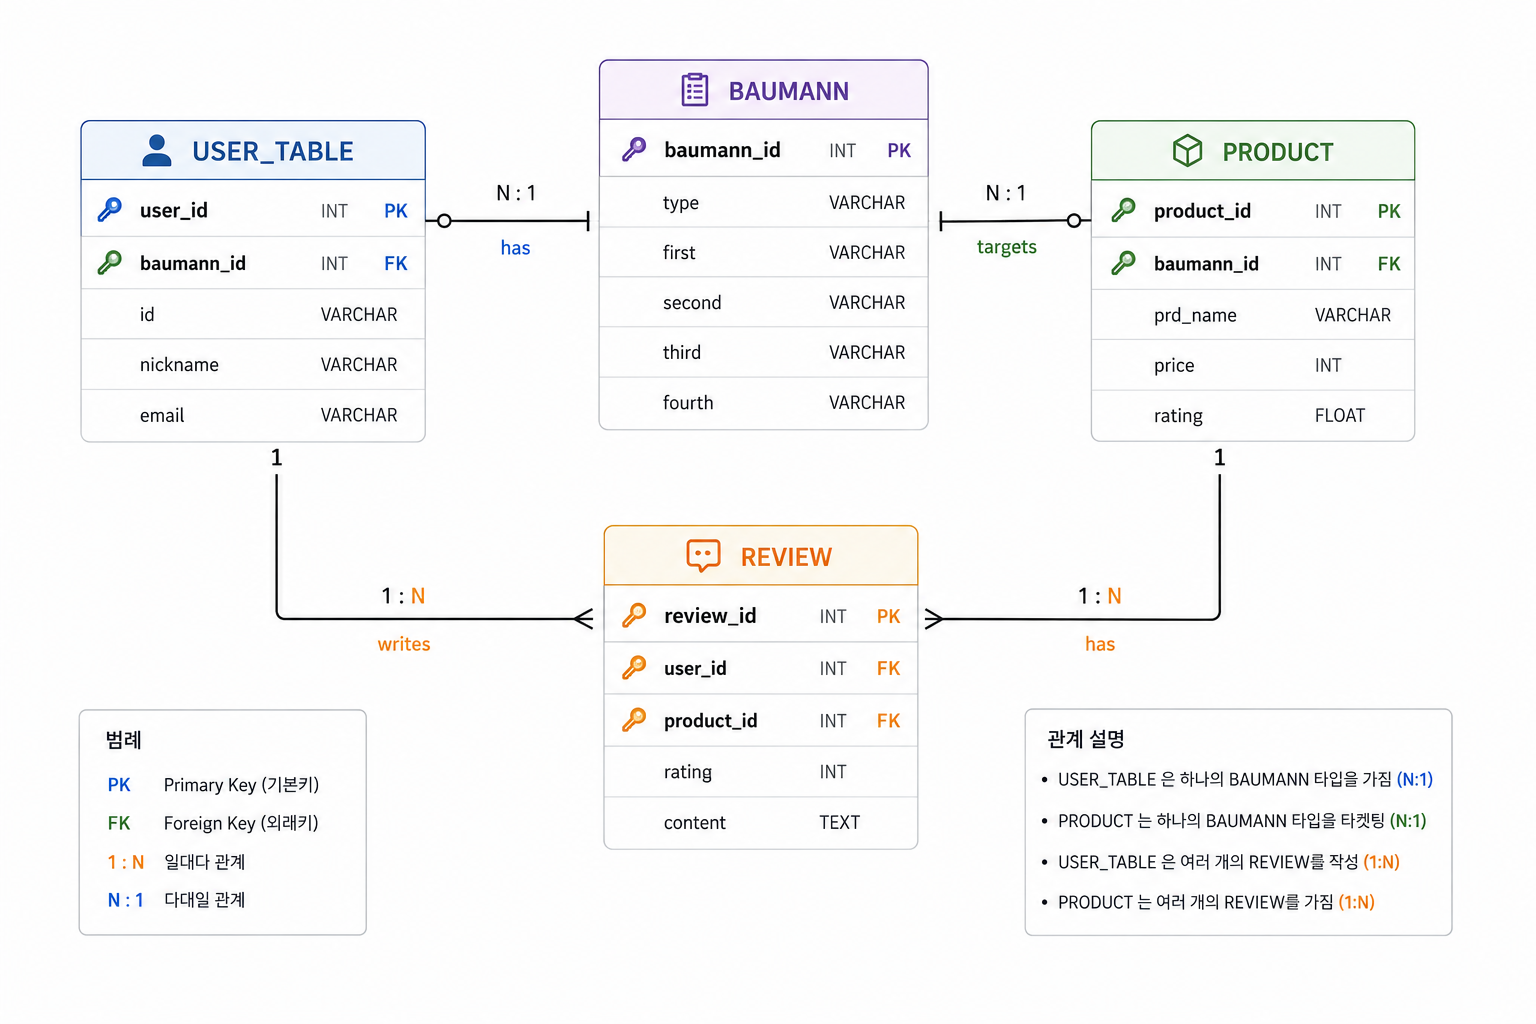
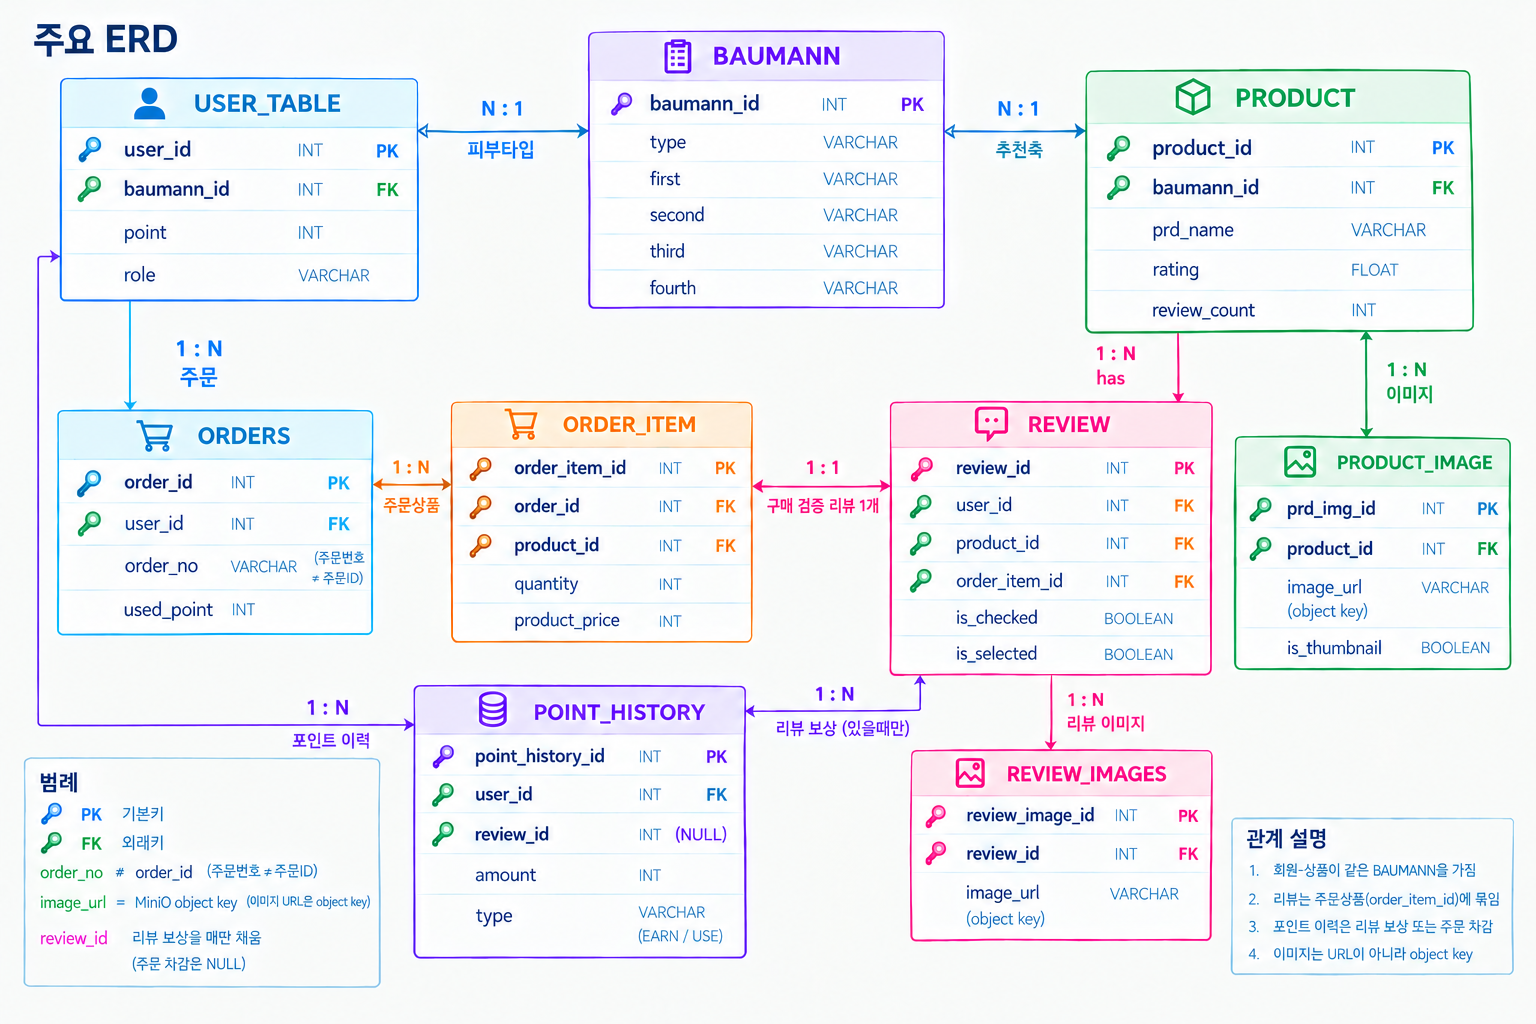
docs: Show core ERD up front and fold the full schema
Replace the old mermaid ERD with the reviewed white diagram, and hide the complete dark ERD behind a collapsed GitHub details block.

diff --git a/README.md b/README.md
@@ -63,80 +63,31 @@ MBTI와 같이 피부 타입을 건성/지성·민감·색소·탄력/주름 네
 
 ### 주요 구현 내용
 
-- **가중치식 추천** — 바우만 4축 일치 + 리뷰 수·별점 유사도 + 베스트 가중치, 상품당 리뷰 1개
-- **Presigned URL 이미지 파이프라인** — 파일은 BE가 받지 않음. Presigned 발급, DB에는 object key
-- **포인트 row lock** — 조회-계산-갱신을 `SELECT … FOR UPDATE`와 트랜잭션으로 묶음
-- **Compose 기반 EC2 배포** — Oracle / MinIO / BE / FE를 한 번에 올리고 Actions로 배포
+- **가중치식 추천** — 바우만 4축이 얼마나 겹치는지를 보고, 리뷰 수·별점 유사도·베스트 가중치까지 더해 상품당 후기 하나를 골라 줍니다.
+- **Presigned URL 이미지 파이프라인** — 파일은 백엔드가 받지 않고, Presigned URL만 발급한 뒤 DB에는 object key만 남깁니다.
+- **포인트 row lock** — 잔액을 조회하고 계산한 뒤 갱신하는 동안 `SELECT … FOR UPDATE`로 한 트랜잭션에 묶어 두었습니다.
+- **Compose 기반 EC2 배포** — Oracle / MinIO / BE / FE를 한 번에 올리고, GitHub Actions로 배포합니다.
 
-기술 선택. 추천 SQL 직접 제어 → MyBatis. 비용·로컬 재현 → S3 대신 MinIO. 세션 SPA 유지 → JWT 교체 없이 CSRF 정합.
+추천 SQL을 직접 다루고 싶어서 MyBatis를 썼고, 비용과 로컬 재현을 생각해 S3 대신 MinIO를 골랐습니다. 세션 기반 SPA를 유지하려고 JWT로 바꾸지 않고 CSRF만 맞춰 두었습니다.
 
 ---
 
 ## 2. 프로젝트 구조
 
-### 주요 ERD (추후 수정 예정)
+### 주요 ERD
 
-현재는 핵심 관계만 표시. 이미지 URL 컬럼은 object key.
+핵심 관계만 표시. 이미지 URL 컬럼은 object key.
 
 ![핵심 ERD](docs/images/erd-core.png)
 
-전체 관계:
+회원·상품이 같은 `BAUMANN`을 공유하고, 추천 SQL이 4축을 점수로 변환. 베스트 리뷰는 `REVIEW.is_checked`, 운영자 픽은 `is_selected`. 포인트 잔액은 `USER_TABLE.point`, 이력은 `POINT_HISTORY`. 리뷰는 주문상품(`order_item_id`)에 묶인다.
 
-```mermaid
-erDiagram
-    BAUMANN ||--o{ USER_TABLE : "피부타입"
-    BAUMANN ||--o{ PRODUCT : "추천축"
-    USER_TABLE ||--o{ REVIEW : writes
-    USER_TABLE ||--o{ POINT_HISTORY : earns
-    USER_TABLE ||--o{ CART_ITEMS : has
-    USER_TABLE ||--o{ WISH_ITEM : has
-    USER_TABLE ||--o{ PAYMENT_METHODS : has
-    USER_TABLE ||--o{ ORDERS : places
-    PRODUCT ||--o{ REVIEW : has
-    PRODUCT ||--o{ PRODUCT_IMAGE : "thumb/detail"
-    PRODUCT ||--o{ CART_ITEMS : in
-    REVIEW ||--o{ REVIEW_IMAGES : has
-    REVIEW ||--o{ POINT_HISTORY : reward
-    ORDERS ||--o{ ORDER_ITEM : contains
-    PRODUCT ||--o{ ORDER_ITEM : sold
+<details>
+<summary>전체 ERD</summary>
 
-    BAUMANN {
-        int baumann_id PK
-        string first
-        string second
-        string third
-        string fourth
-        string type
-    }
-    USER_TABLE {
-        int user_id PK
-        int baumann_id FK
-        int point
-        string role
-    }
-    PRODUCT {
-        int product_id PK
-        int baumann_id FK
-        int review_count
-        float rating
-    }
-    REVIEW {
-        int review_id PK
-        int user_id FK
-        int product_id FK
-        int like_count
-        int is_checked
-        int is_selected
-    }
-    POINT_HISTORY {
-        int point_history_id PK
-        int user_id FK
-        int review_id FK
-        int amount
-        string type
-    }
-```
+![전체 ERD](docs/images/erd-full.png)
 
+</details>
 
 ### 서버 · 배포 구조
 
